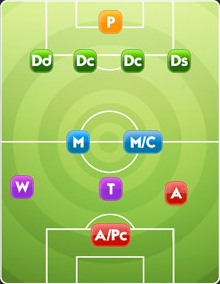
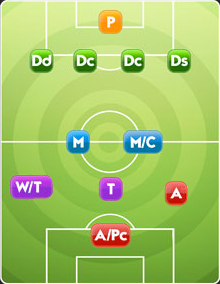
Update module image, hide guide

Changed region(s): [[0.1091, 0.5915, 0.2455, 0.7042]]

diff --git a/app/assets/stylesheets/lineups.scss b/app/assets/stylesheets/lineups.scss
@@ -578,7 +578,7 @@
   background: linear-gradient(to bottom, #78d236, #317810);
 }
 
-.slot-position-T, .slot-position-W {
+.slot-position-T, .slot-position-W, .slot-position-WT {
   background: linear-gradient(to bottom, #d451df, #a94adc);
 }
 
